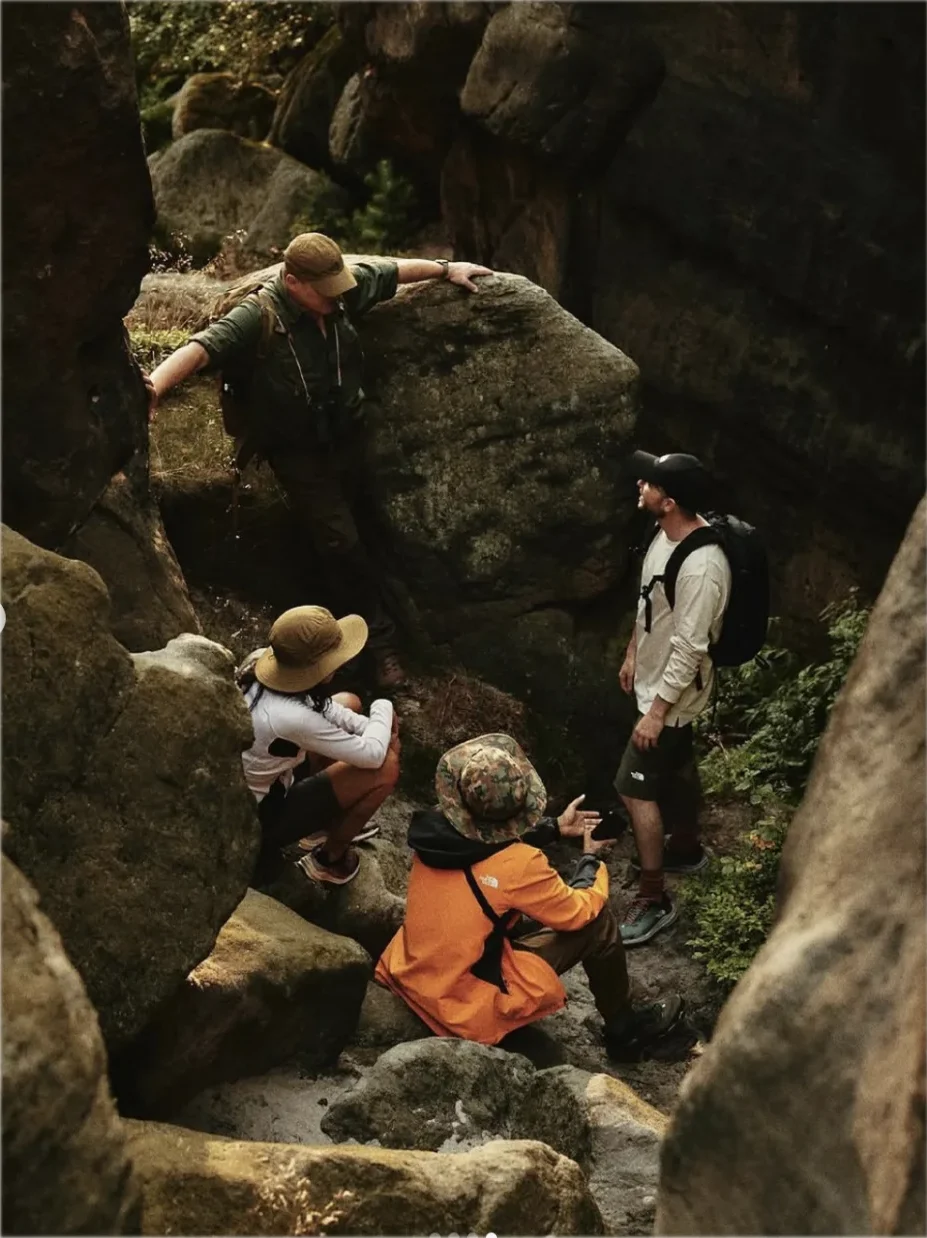
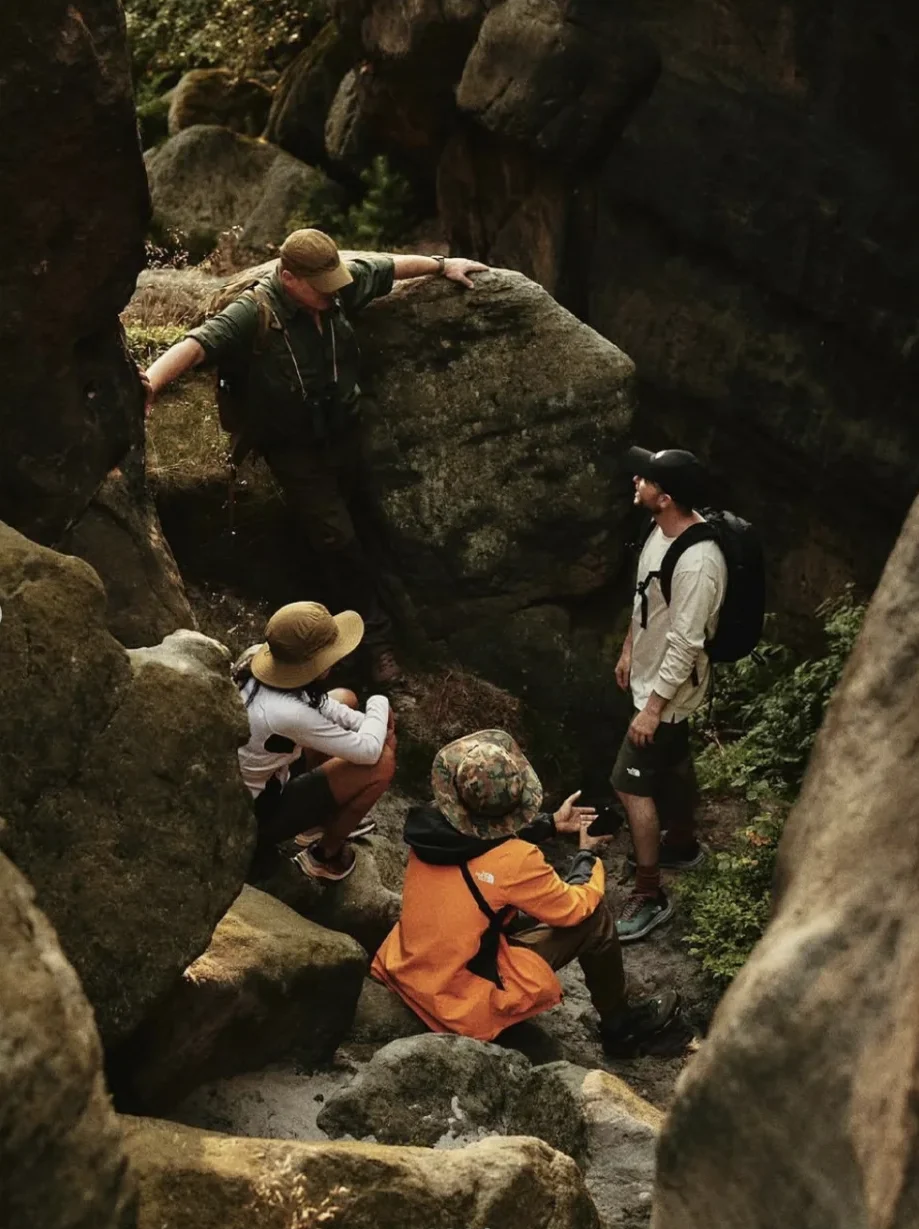
Dải màu 3D không nhô khỏi khung khi đang lăn (overflow clip); ảnh đá cắt sâu thêm, hết dải viền sáng loang ở 4 mép

diff --git a/assets/css/home.css b/assets/css/home.css
@@ -302,7 +302,9 @@
 /* [data-flip3d] (chande-home.js gắn .is-3d): mỗi vạch là khối hộp — mặt trước màu
    của nó (--cf), mặt DƯỚI màu của vạch đối xứng (--cb). Xoay rotateX(--t × 90°):
    khối lăn lên, mặt dưới ra trước -> cả dải đảo thứ tự màu. --h = cao một vạch. */
-.scheme.is-3d{perspective:1600px; perspective-origin:50% 50%}
+/* overflow clip: đang lăn, khối nghiêng cao √2 lần -> vạch trên / dưới cùng nhô
+   ra khỏi khung dải; cắt lại để dải không "đội" lên / thò xuống. */
+.scheme.is-3d{perspective:1600px; perspective-origin:50% 50%; overflow:clip}
 .scheme.is-3d > i{position:relative; background:none !important; transform-style:preserve-3d;
   /* --k = p / (p + h/2): mặt trước nhô h/2 về phía người xem nên phối cảnh phóng
      to p/(p − z) — thu cả khối lại để lúc đứng yên mặt trước khớp đúng mép cũ
